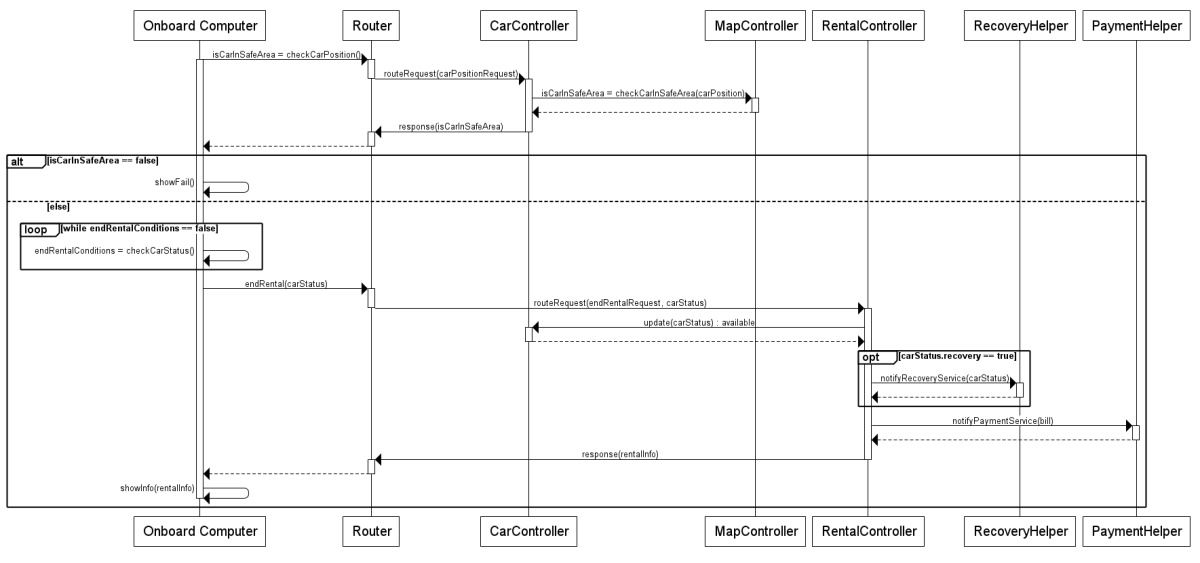
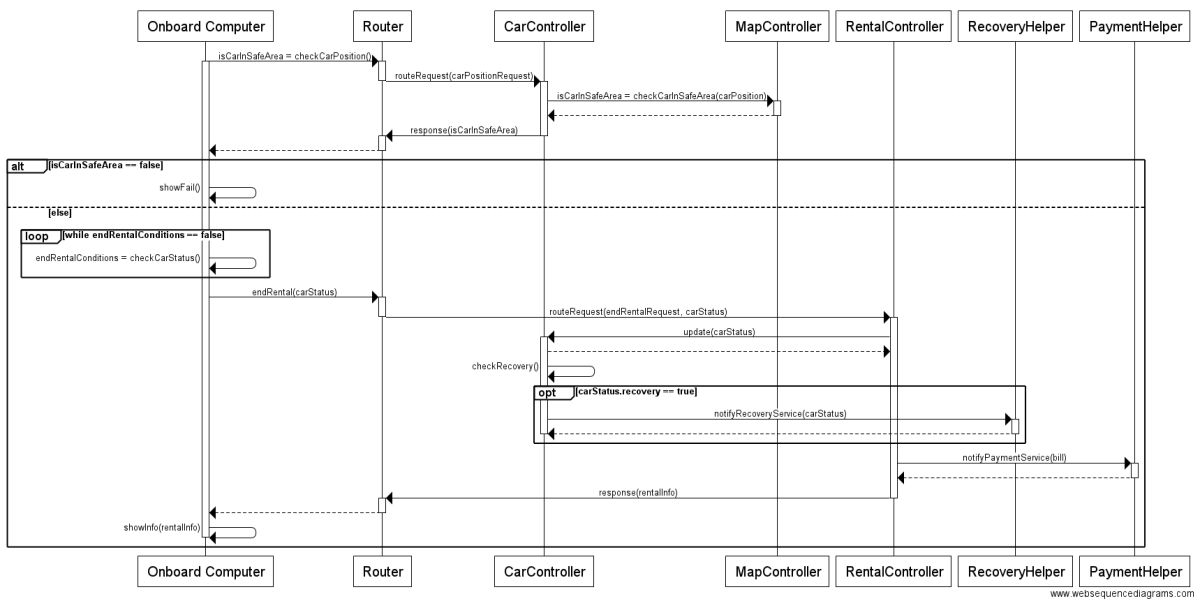
Fix DD RecoveryHelper interactions

Changed region(s): [[0.0, 0.0, 1.0, 0.9964], [0.5858, 0.0, 1.0, 0.0906]]

diff --git a/DD/main.tex b/DD/main.tex
@@ -51,6 +51,12 @@
 \begin{versionhistory}
   \vhEntry{0.1}{23.11.16}{RP}{Document created}
   \vhEntry{1.0}{11.12.16}{RP and MP}{Document approved}
+  \vhEntry{1.0.1}{10.01.16}{RP and MP}{{Fix RecoveryHelper interactions \par}
+		\begin{tabular}[t]{@{\textendash\xspace}p{5.825cm}}
+			Fix Component View diagram \\
+			Fix end-rental sequence diagram
+		\end{tabular}
+ 	}
 \end{versionhistory}
 
 \vspace{5cm}
